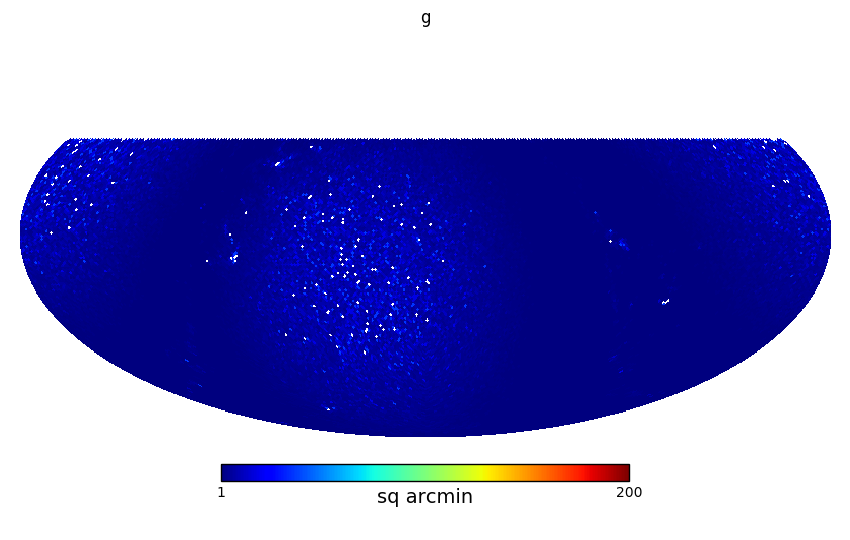
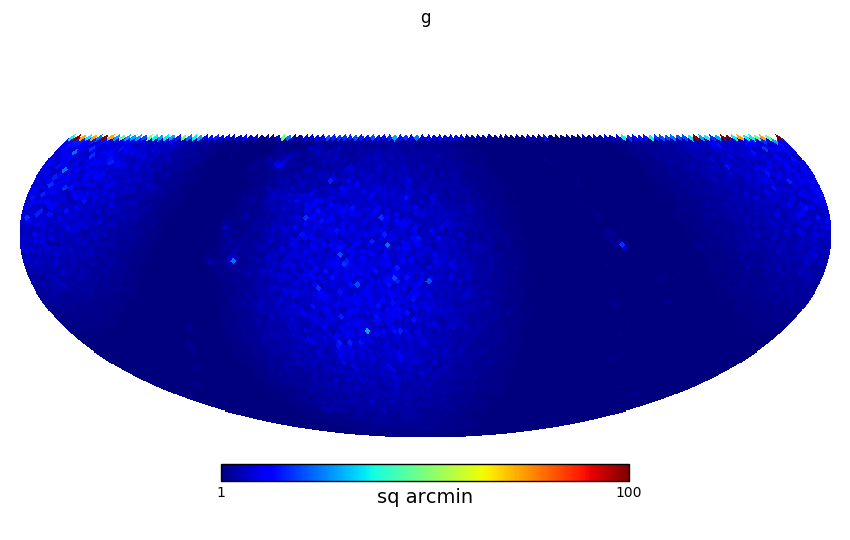
add exec summary and smooth plots

Changed region(s): [[0.0, 0.237, 0.9788, 0.7704], [0.7341, 0.8889, 0.7647, 0.9185]]

diff --git a/index.rst b/index.rst
@@ -45,6 +45,15 @@
 
 .. Add content below. Do not include the document title.
 
+Executive Summary
+=================
+
+We investigate the possibility of using Gaia observations as a source of calibration stars for LSST observations.  A population of suitable Gaia stars could make it unnecessary to run ubercal on the LSST data. We find simulated Gaia BP/RP spectra can generate synthetic *g, r, i, z,* and *y* magnitudes for stars with adequate precision that they could be used to calibrate zeropoint magnitudes for individual LSST CCDs. 
+
+The Gaia specrta to not extend far enough into the blue to compute LSST *u* magnitudes. We explore the possibility of interpolating *u* magnitudes from Kurucz stellar models using the Gaia synthetic *g* and *r* magnitudes along with the Gaia fitted metallicity and surface gravity fitted values. We find the interpolating *u* magnitudes is very sensitive to the metallicity and would only be adequate with a larger stellar atmosphere library and/or better interpolation scheme.
+
+One final warning is that in the galactic plane, Gaia will only observe brighter stars. Since the BP/RP observations only share about 2 magnitudes of overlap with LSST, this means Gaia will not provide usable calibration stars for any filter in the galactic plane.
+
 
 Introduction
 ============
